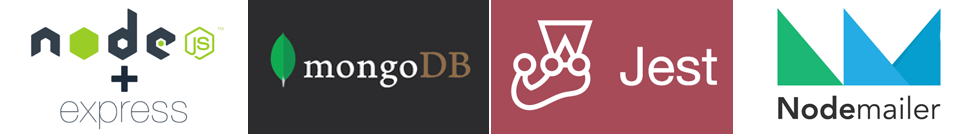
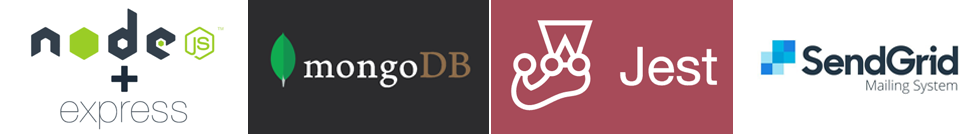
Updated ReadMe.

Changed region(s): [[0.7677, 0.0896, 0.9826, 0.8955]]

diff --git a/readme1.md b/readme1.md
@@ -1,0 +1,234 @@
+![Banner](./banner.png)
+
+# REST API Contacts Project
+
+The Web API allows to register users and handle their collections of contacts.
+
+## Scripts
+
+### To launch the project in development mode
+
+```shell
+
+npm run start:dev
+
+```
+
+### To launch the project in production mode
+
+```shell
+
+npm start
+
+```
+
+## Endpoints
+
+### /api/users/signup - to register a new user
+
+- Email and password are required. Name is optional.
+- If no name is provided, 'Awesome Guest' is set as default.
+- Fields are validated.
+- If the email is already in use, the error of conflict is returned.
+- If validation is successful and email is unique, the password is hashed and the new user is saved in database.
+- No authentication token is returned since verification stage via email is implemented.
+
+#### Registration request
+
+```shell
+
+POST /api/users/signup
+Content-Type: application/json
+RequestBody: {
+  "name": "Example Examplovich",
+  "email": "example@mail.com",
+  "password": "example123"
+}
+
+```
+
+### /api/users/login - to log an existing user in
+
+- Email and password are required.
+- Email and password fields are validated only for their presence.
+- If a user with the provided e-mail and or password does not exist in database, general error message is returned.
+- If validation is successful, credentials are right, and the user is verified the JSON Web Token is created and returned.
+- JWT has limited life span.
+
+#### Login request
+
+```shell
+
+POST /api/users/login
+Content-Type: application/json
+RequestBody: {
+  "email": "example@mail.com",
+  "password": "example123"
+}
+
+```
+
+### /api/users/logout - to log a user out
+
+- Sets JWT to null.
+- Returns nothing, but No Content status.
+
+#### Logout request
+
+```shell
+
+POST /api/users/logout
+Authorization: "Bearer {{token}}"
+
+```
+
+### /api/users/current - to get a current user
+
+#### Current user request
+
+```shell
+
+GET /api/users/current
+Authorization: "Bearer {{token}}"
+
+```
+
+### /api/users - to update a current user
+
+#### Update a user request
+
+```shell
+
+PATCH /api/users
+Content-Type: application/json
+Authorization: "Bearer {{token}}"
+RequestBody: {
+  "subscription": "pro"
+}
+
+```
+
+### /api/users/avatars - to update a user's avatar
+
+#### Update avatar request
+
+```shell
+
+PATCH /api/users/avatars
+Content-Type: multipart/form-data
+Authorization: "Bearer {{token}}"
+RequestBody: <uploaded image>
+
+```
+
+### /api/users/verify - to resend verification e-mail
+
+#### Resend verification email request
+
+```shell
+
+POST /api/users/verify
+Content-Type: application/json
+RequestBody: {
+  "email": "example@mail.com"
+}
+
+```
+
+### /api/users/verify/:verificationToken - to confirm account via e-mail
+
+#### Account confirmation request
+
+```shell
+
+GET /api/users/verify/:verificationToken
+
+```
+
+---
+
+### /api/contacts - to get the list of all current user's contacts
+
+### Get all contacts request
+
+```shell
+
+GET /api/contacts
+Authorization: "Bearer {{token}}"
+
+```
+
+### /api/contacts/:contactId - to manipulate the contact with specific id
+
+### Get a contact by ID request
+
+```shell
+
+GET /api/contacts/:contactId
+Content-Type: application/json
+Authorization: "Bearer {{token}}"
+
+```
+
+### Update a contact request
+
+```shell
+
+PUT /api/contacts/:contactId
+Content-Type: application/json
+Authorization: "Bearer {{token}}"
+RequestBody: {
+  "email": "new-example@mail.com"
+}
+
+```
+
+### Delete a contact request
+
+```shell
+
+DELETE /api/contacts/:contactId
+Content-Type: application/json
+Authorization: "Bearer {{token}}"
+
+```
+
+### /api/contacts/:contactId/favorite - to update a contact's favorite field
+
+### Update favorite field of a contact request
+
+```shell
+
+PATCH /api/contacts/:contactId/favorite
+Content-Type: application/json
+Authorization: "Bearer {{token}}"
+RequestBody: {
+  "favorite": true
+}
+
+```
+
+## Tools and resources
+
+- JavaScript (Node.js) - as primary language.
+- [Express](https://expressjs.com/) - Node.js web application framework.
+- [bcryptjs](https://www.npmjs.com/package/bcryptjs) - to hash passwords.
+- [jsonwebtoken](https://www.npmjs.com/package/jsonwebtoken) - to generate, sign, verify JWT.
+- [passport-jwt](https://www.npmjs.com/package/passport-jwt) - to implement JWT strategy authentication.
+- [helmet](https://www.npmjs.com/package/helmet) - to secure the Web API.
+- [express-rate-limit](https://www.npmjs.com/package/express-rate-limit) - to set rate limits on requests to the Web API.
+- [express-query-boolean](https://www.npmjs.com/package/express-query-boolean) - to parse boolean values from req.query.
+- [Joi](https://joi.dev/api/) - to validate data provided in POST requests.
+- [gravatar](https://www.npmjs.com/package/gravatar) - to set default avatar for newly registered users.
+- [jimp](https://www.npmjs.com/package/jimp) - to format an avatar image.
+- [multer](https://www.npmjs.com/package/multer) - to handle avatars uploads.
+- [mongoose](https://www.npmjs.com/package/mongoose) - to handle requests to Mongo DB collections.
+- [mongoose-paginate-v2](https://www.npmjs.com/package/mongoose-paginate-v2) - to implement server side pagination of user's contacts.
+- [mailgen](https://www.npmjs.com/package/mailgen) - to generate verification email.
+- [SendGrid](https://sendgrid.com/) - to send verification emails.
+- [jest](https://www.npmjs.com/package/jest) - for unit tests.
+
+## Credits
+
+- [Nadia](https://github.com/NadyaHristuk) - mentor & supervisor
+- [Larisa](https://github.com/Larisa-Antsifrova) - developer
